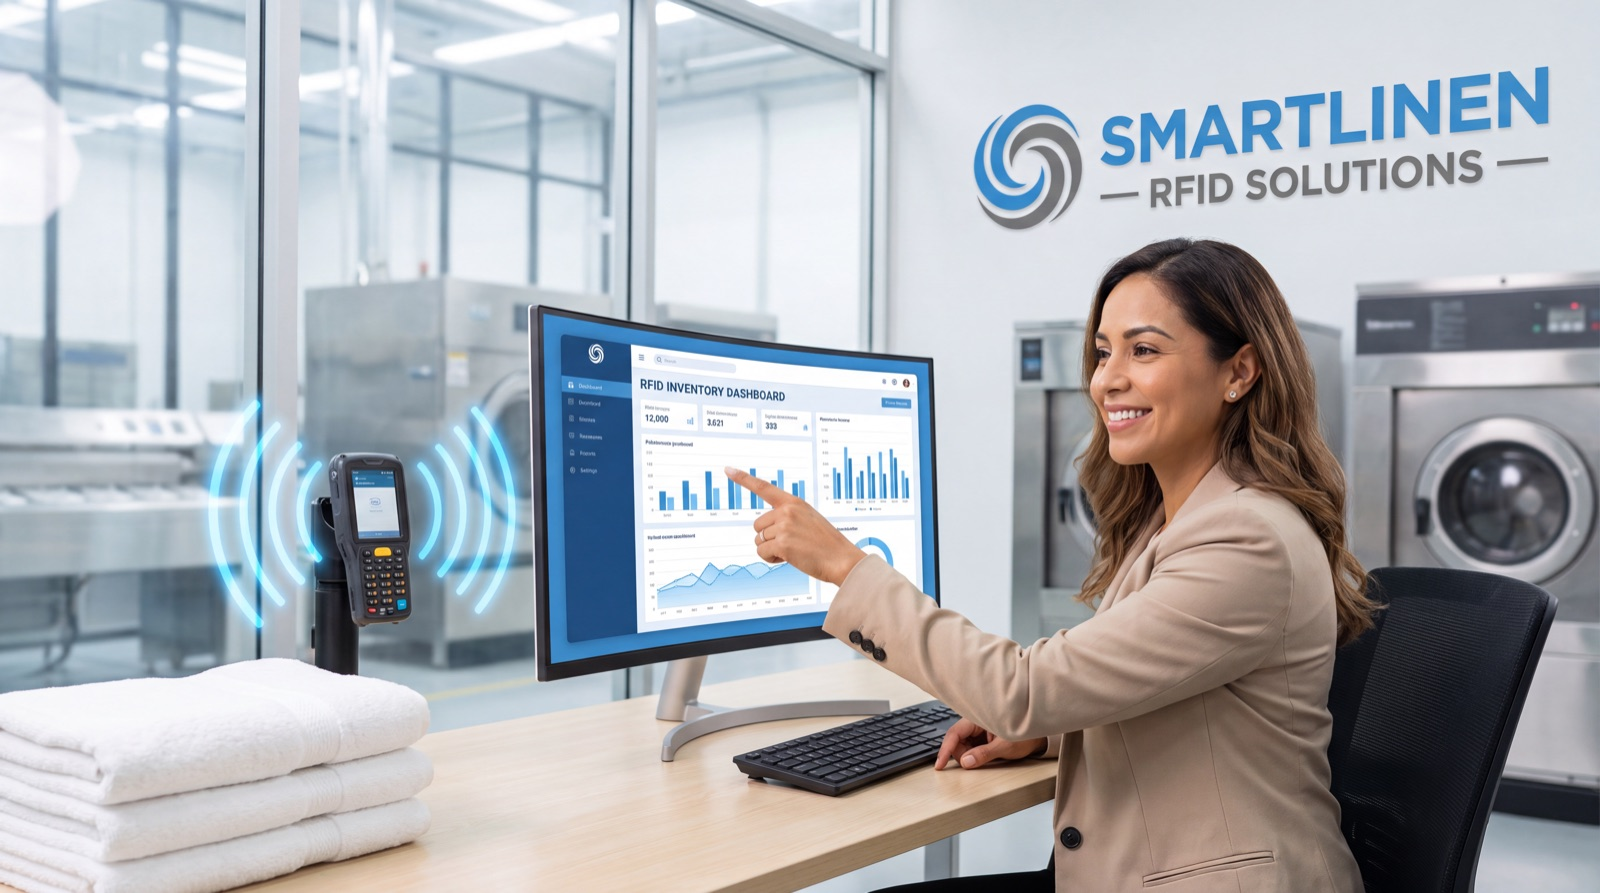
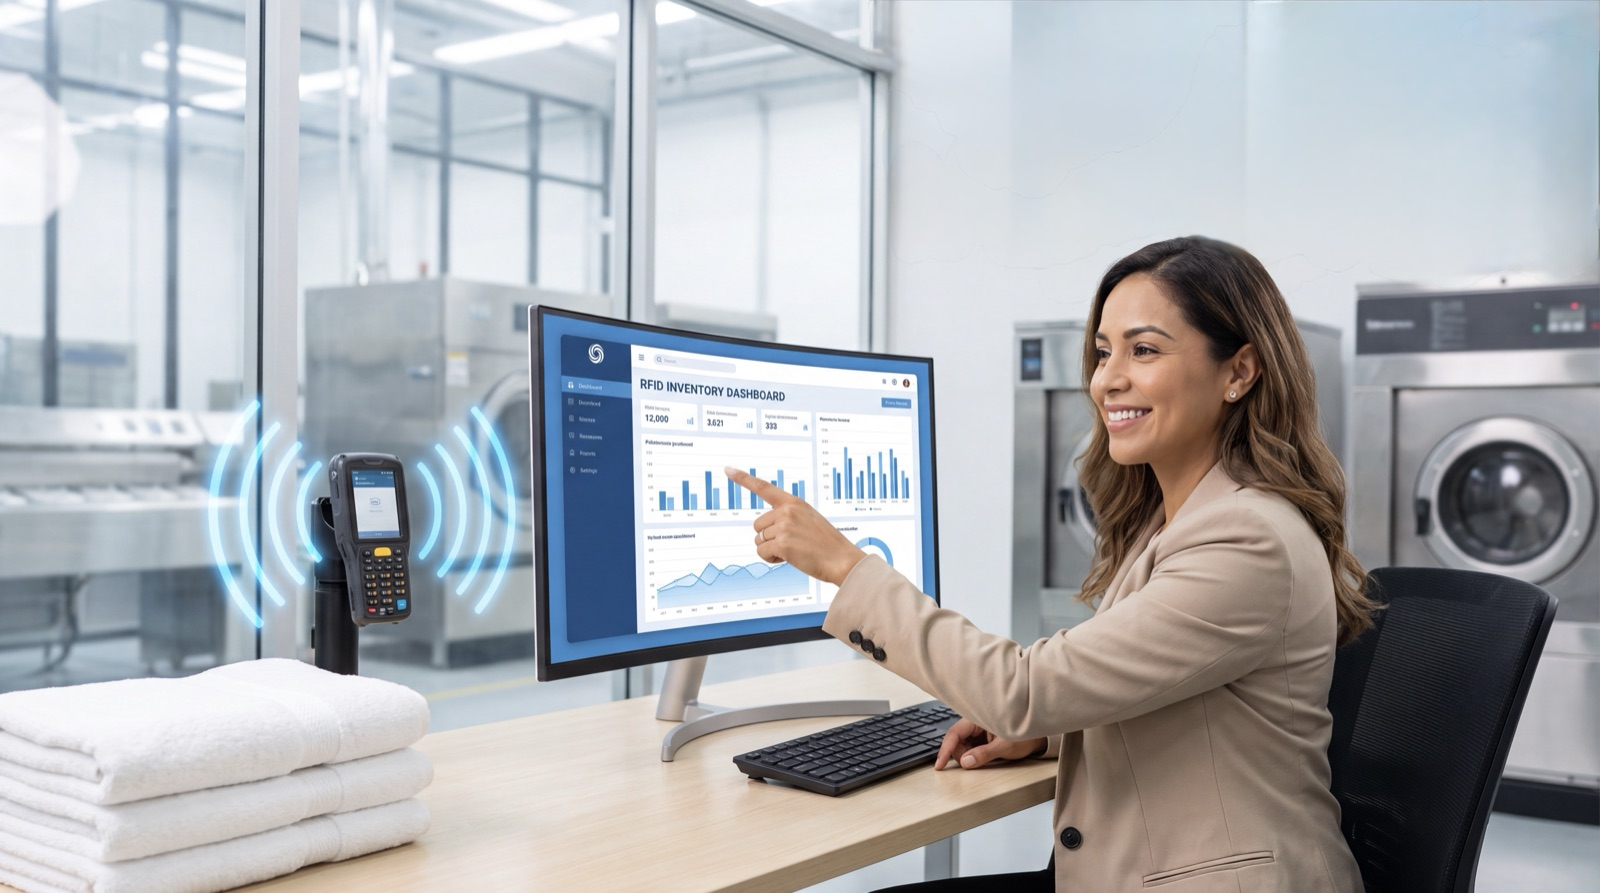
fix: nuevas imágenes — Trazatex hero (RFID), Operissa (planta gran escala), pillars y hero Nosotros
- trazatex-hero-rfid.jpg: nueva ilustración del dashboard RFID (hero + cards Trazatex).
- operissa-hero.jpg: lavandería industrial de gran escala, sin branding de terceros
  (reemplaza la de EqualStock con logo Welspun visible) (hero + cards Operissa).
- operissa-proceso.jpg (pillars/whoWeAre): interior de lavandería industrial sin personas.
- institucional (hero Nosotros): usa /img/ecosistema.jpg (misma foto que 'Quiénes somos' del home).
- imageAlt ES/EN y CREDITS.md actualizados.

diff --git a/CHANGELOG.md b/CHANGELOG.md
@@ -6,6 +6,14 @@ Formato: [Keep a Changelog](https://keepachangelog.com/en/1.1.0/) + [Semantic Ve
 
 ## [Unreleased]
 
+- fix: **navbar — el CTA "Contacto" pierde su botón azul en la página de contacto** (`assets/css/site.css`): al entrar a `/contacto`, NuxtLink marca el CTA con `aria-current="page"` y la regla genérica `.main-nav > a[aria-current="page"]` (fondo gris translúcido, mayor especificidad que `.nav-cta`) pisaba el azul eléctrico → se veía gris con letras blancas. Se añade un override específico (`.main-nav > a.nav-cta[aria-current="page"]` + variante header transparente) que conserva `background: var(--electrico)`. Solo CSS.
+- feat: **Trazatex — CTA "Solicita una demo en vivo" enlaza al dashboard de ASIS IDTRAK** (`content/brands/trazatex.json` + `PlatformShowcase.vue`): el CTA al pie de la sección "La plataforma en vivo" pasa de "Solicitar una demo" → `/contacto` a **"Solicita una demo en vivo"** (EN: "Request a live demo") → `https://dashboard.asisidtrak.com/`. Se cambió el `BaseButton` de `:to` (ruta interna) a `:href` (externo), por lo que abre en pestaña nueva con `target="_blank" rel="noopener noreferrer"` (BaseButton lo detecta por el protocolo). Coherente con la URL `dashboard.asisidtrak.com` que ya muestra el mock del dashboard en esa misma sección.
+- style: **desktop — la sección "Quiénes somos" alterna el lado de su imagen respecto al hero** (`marca-pacifica`, `marca-operissa`, `institucional`): el hero muestra la imagen a la derecha y la sección inmediatamente inferior (`whoWeAre`) la mostraba **también a la derecha** → dos imágenes seguidas del mismo lado, rompía el zigzag y restaba fluidez. Se añade `reverse` al `intro-split` del `whoWeAre` para llevar su imagen a la izquierda. Solo afecta desktop (en móvil el layout ya colapsa a una columna). Trazatex no aplica (su sección posterior al hero no es un split de imagen).
+- fix: **Operissa — nueva imagen (hero + todas las cards)** (`operissa-hero.jpg`): reemplaza la foto anterior (EqualStock, Pexels 31259205) que mostraba **branding de un tercero visible** ("Welspun Group" en uniformes y cartel AQL). Nueva: plano de conjunto de una **lavandería industrial de gran escala** (nave con fila de máquinas grandes y carros de lona) con un operario a media distancia, **no en primer plano** (Pexels 38362010, Dmitriy Steinke — sin branding de terceros), recortada de vertical a 1600×1067. Misma ruta `/img/operissa-hero.jpg` → actualiza el hero de `marca-operissa` **y las 8 cards de Operissa** (home, institucional, los 4 sectores, cross-links en Pacífica/Trazatex) sin tocar JSON. `imageAlt` ya describía la escena; `CREDITS.md` actualizado.
+- fix: **página Nosotros — el hero usa la misma foto que "Quiénes somos" del home** (`institucional.json`): el `hero` pasa de `/img/hero-lavanderia.jpg` a `/img/ecosistema.jpg` (equipos Kannegiesser, la misma imagen del bloque `groupIntro` del home). `imageAlt` del hero sin cambios (sigue siendo preciso). `hero-lavanderia.jpg` queda sin uso.
+- perf: **navegación local ~40× más rápida — no invocar `applicationDefault()` sin credenciales** (`server/utils/firebaseAdmin.js`). En dev (sin prerender) cada página SSR lee contenido vía `/api/content/**`, que consulta Firestore con Admin SDK. Sin `FIREBASE_SERVICE_ACCOUNT`, el código caía a `applicationDefault()`, que en una máquina fuera de GCP intenta el metadata server (`169.254.169.254`) y **cuelga ~8 s por lectura** antes de fallar al seed. Ahora `getAdminDb()` solo usa `applicationDefault()` si `GOOGLE_APPLICATION_CREDENTIALS` está seteado; de lo contrario lanza al instante y los loaders caen al JSON semilla sin demora. Medido: `/api/content/settings` 8.08 s → 0.016 s; home SSR → 0.20 s. Sin efecto en producción (Vercel tiene el service account).
+- fix: **home — nueva foto en "Lavandería, inteligencia y excelencia operacional"** (`pillars`): reemplaza la foto anterior por un interior de conjunto de la lavandería industrial —fila de lavadoras y secadoras de gran capacidad con carros de ropa, **sin personas**— (Pexels 8774643, Tima Miroshnichenko — misma serie visual del sitio), 1800×1200. Misma ruta `/img/operissa-proceso.jpg` (sin tocar el JSON de la imagen); `imageAlt` ES/EN reescrito para la nueva escena y `CREDITS.md` actualizado.
+- fix: **Trazatex — nueva imagen del hero RFID** (`trazatex-hero-rfid.jpg`): reemplaza la ilustración anterior por la nueva provista (operaria señalando un dashboard de inventario RFID con lector portátil, en lavandería industrial). Se **reutiliza la misma ruta** `/img/trazatex-hero-rfid.jpg`, por lo que actualiza el hero de `marca-trazatex` **y todas las cards de Trazatex** (home, los 4 sectores, institucional, y los cross-links en Pacífica/Operissa) sin tocar JSON ni Firestore. Redimensionada a 1600×893 (16:9, ~240 KB). `imageAlt` ES/EN ya describía la escena; `CREDITS.md` actualizado.
 - fix: **home — nueva foto en "Lavandería, inteligencia y excelencia operacional"** (`pillars`): reemplaza `operissa-proceso.jpg` por una foto de lavandería industrial completa en operación (Pexels 8774639, Tima Miroshnichenko — misma línea visual que las demás fotos del sitio), redimensionada a 1800×1200. Misma ruta `/img/operissa-proceso.jpg` (sin tocar el JSON de la imagen); `imageAlt` ES/EN y `CREDITS.md` actualizados.
 - fix: **home — nueva foto del ecosistema en "Tres marcas, una misma visión"** (`groupIntro`): reemplaza `ecosistema.jpg` por la imagen aportada por el cliente (equipos Kannegiesser de lavandería industrial). PNG→JPG, redimensionada a 1800×1004 (~330 KB, antes 2.4 MB). Se reusa la misma ruta `/img/ecosistema.jpg` (no se toca el JSON de la imagen); `imageAlt` ES/EN actualizado.
 - refactor: **página Trazatex — elimina la sección "El modelo de 4 capas"** (`fourLayer`) del template, del JSON de contenido (`content/brands/trazatex.json`) y su CSS ya huérfano (`.layer-card`/`.layer-num`). "Infraestructura tecnológica" pasa a seguir directamente a "Soluciones".

diff --git a/CREDITS.md b/CREDITS.md
@@ -19,11 +19,11 @@ Imágenes de banco gratuito usadas en el sitio (`assets/img/`). **Las licencias 
 | `pacifica-hero-rfid.jpg` | Aportada por el cliente (Grupo Higienissa) | Grupo Higienissa | Propietaria | No |
 | `pacifica-proceso.jpg` | **Foto propia** — planta de Grupo Higienissa (calandra) | Grupo Higienissa | Propietaria | No |
 | `pacifica-band.jpg` | **Foto propia** — planta de Grupo Higienissa (línea de alimentadoras) | Grupo Higienissa | Propietaria | No |
-| `operissa-hero.jpg` | [Pexels](https://www.pexels.com/photo/31259205/) | EqualStock IN | Pexels License | No (opcional) |
-| `operissa-proceso.jpg` | [Pexels](https://www.pexels.com/photo/8774639/) | Tima Miroshnichenko | Pexels License | No (opcional) |
+| `operissa-hero.jpg` | [Pexels](https://www.pexels.com/photo/38362010/) | Dmitriy Steinke | Pexels License | No (opcional) |
+| `operissa-proceso.jpg` | [Pexels](https://www.pexels.com/photo/8774643/) | Tima Miroshnichenko | Pexels License | No (opcional) |
 | `operissa-band.jpg` | [Pexels](https://www.pexels.com/photo/31047154/) | EqualStock IN | Pexels License | No (opcional) |
 | `trazatex-hero.jpg` | Aportada por el cliente (Grupo Higienissa) | Grupo Higienissa | Propietaria | No |
-| `trazatex-hero-rfid.jpg` | Aportada por el cliente (Grupo Higienissa) — dashboard RFID en lavandería | Grupo Higienissa | Propietaria | No |
+| `trazatex-hero-rfid.jpg` | Ilustración generada (HyperFrames) — operaria señalando un dashboard de inventario RFID con lector portátil, en lavandería industrial | Grupo Higienissa | Propietaria | No |
 | `trazatex-datos.jpg` | [Pexels](https://www.pexels.com/photo/36950598/) | Jakub Zerdzicki | Pexels License | No (opcional) |
 | `trazatex-band.jpg` | [Pexels](https://www.pexels.com/photo/27141307/) | Egor Komarov | Pexels License | No (opcional) |
 | `hoteleria-hero.jpg` | [Pexels](https://www.pexels.com/photo/2736388/) | Engin Akyurt | Pexels License | No (opcional) |
